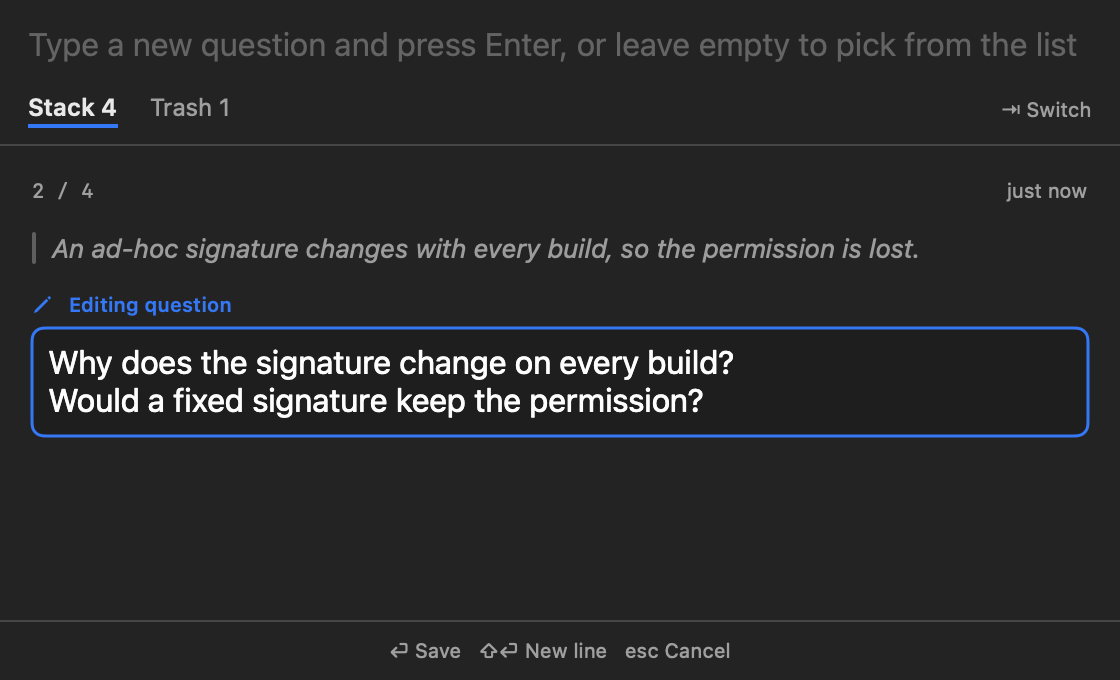
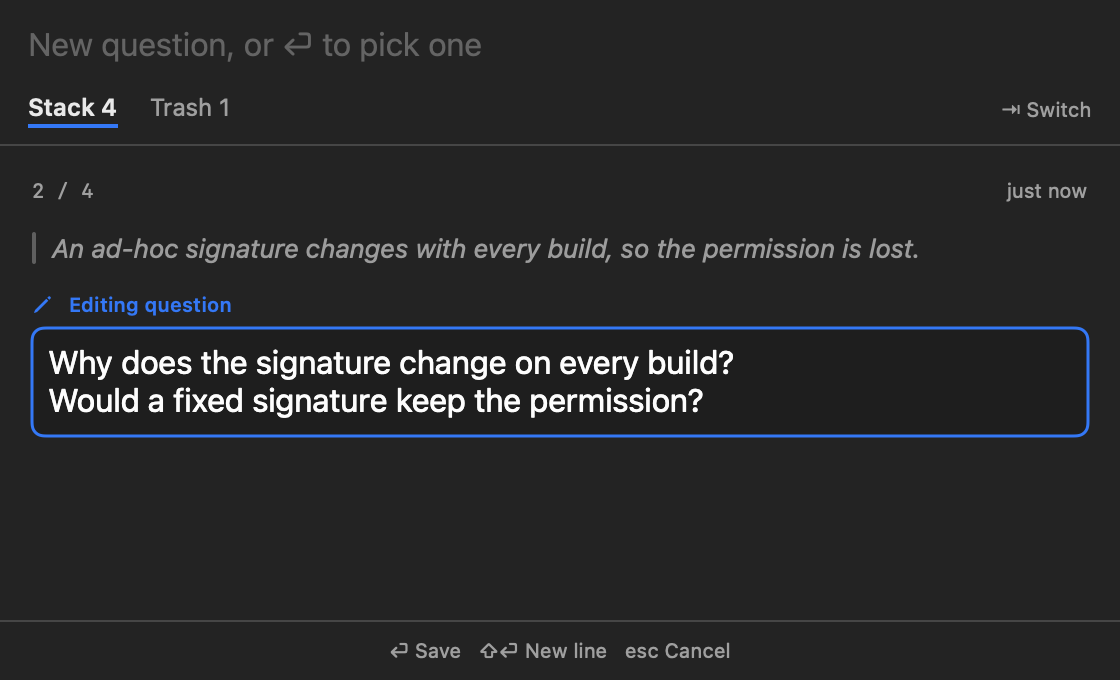
docs: MIT 라이선스 추가, 화면 그림 다시 그리기

Changed region(s): [[0.0312, 0.0309, 0.9688, 0.0926]]

diff --git a/README.en.md b/README.en.md
@@ -16,7 +16,7 @@ The app speaks English and Korean and follows your system language by default.
 |---|---|---|
 | [Isn't the clipboard enough?](#isnt-the-clipboard-enough) | [Getting started](#getting-started) | [Keys](#keys) |
 | [An example](#an-example) | [Holding a question](#holding-a-question) | [Settings](#settings) |
-|  | [Taking one out](#taking-one-out) |  |
+|  | [Taking one out](#taking-one-out) | [License](#license) |
 |  | [Editing](#editing) |  |
 |  | [Trash and undo](#trash-and-undo) |  |
 
@@ -114,3 +114,7 @@ Press `⌘,` in the list window, or choose Settings… from the menu bar icon. V
 | Global shortcuts | Click a button and press a new combination to change it. Turn one off with the switch next to it to free that combination for other apps |
 
 A shortcut must include `⌃`, `⌥`, or `⌘`, and editing shortcuts every app relies on, such as `⌘C` and `⌘V`, can't be chosen.
+
+## License
+
+MIT. You are free to use, modify, and distribute it as long as the copyright notice is kept. See [LICENSE](LICENSE) for the full text.
